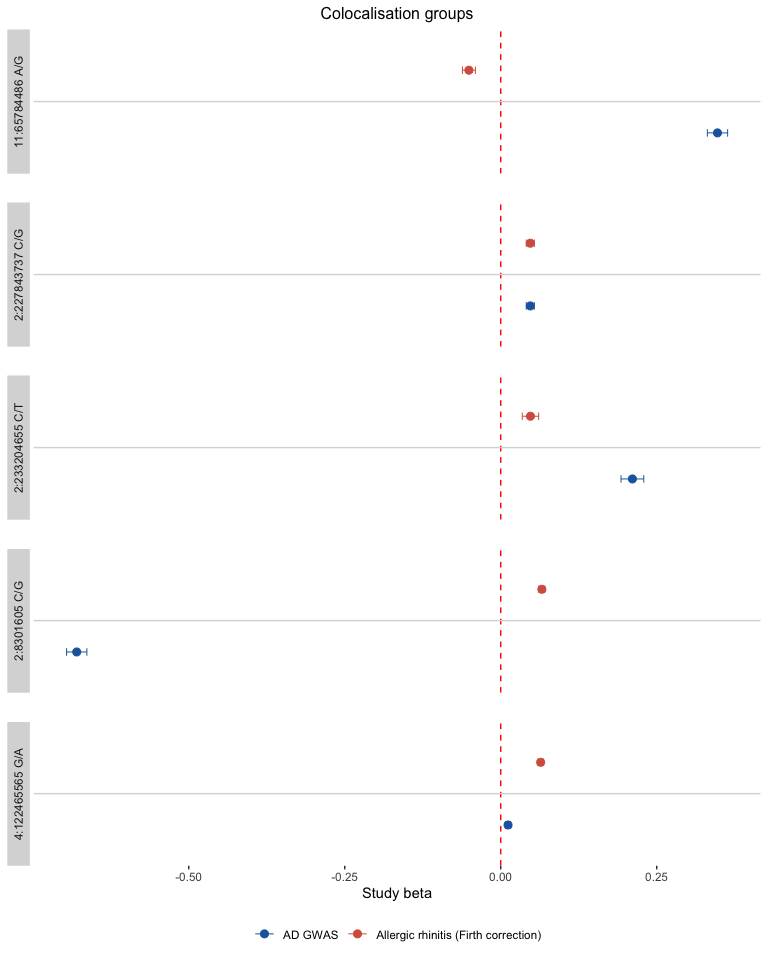
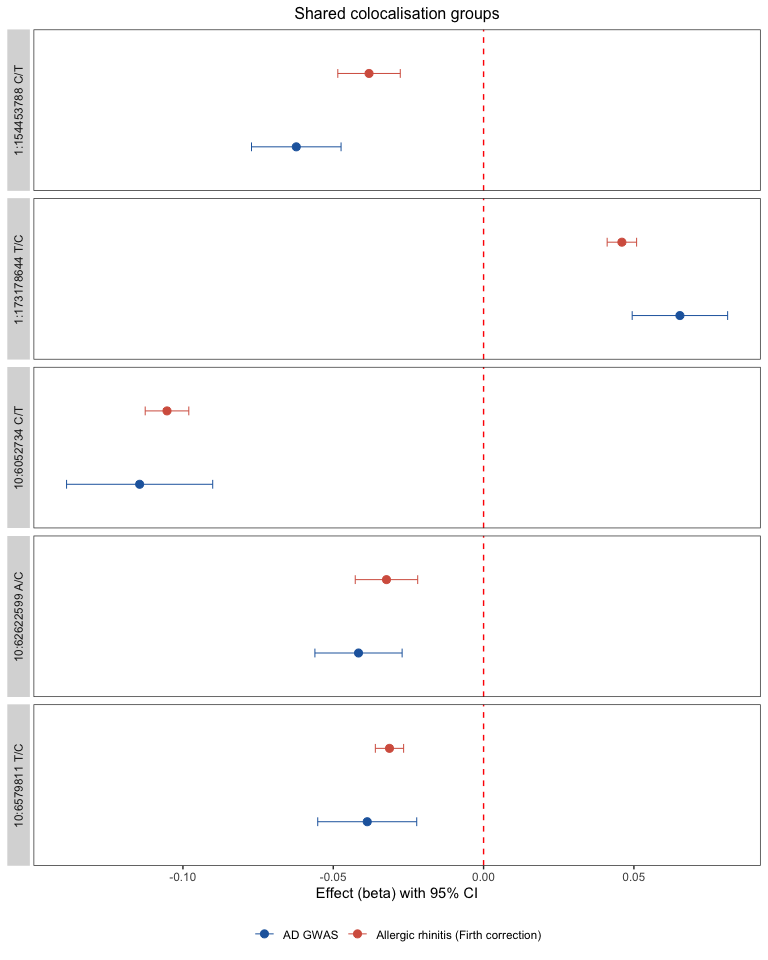
Feature/update offline vignettes (#31)
* Running vignettes/precompile.R for cran prep

* Updating CRAN comments

diff --git a/cran-comments.md b/cran-comments.md
@@ -3,20 +3,26 @@
 0 errors | 0 warnings | 1 note
 
 * This is a new release.
+* Possibly misspelled words in DESCRIPTION: "colocalisation", "colocalising" and "pleiotropy" are
+  spelled correctly (British spelling of standard genetics terms).
 
 ## Test environments
 
-* local macOS, R (release)
-* win-builder (devel)
-* R-hub (linux, macos, windows)
+* local macOS, R release: 0 errors | 0 warnings | 1 note ("unable to verify current time", from the
+  local network)
+* win-builder, R-devel (2026-10-22 r90748 ucrt), x86_64-w64-mingw32: 0 errors | 0 warnings | 1 note
+  (the note above)
+* R-hub: linux, macos, macos-arm64, windows (R-devel)
 
 ## Notes for the reviewer
 
 * gpmapr is a client for a web API (<https://gpmap.opengwas.io>).
   - Loading the package makes no network request.
   - Functions that reach the API fail with an informative error when it is unavailable.
-* Tests that need the API are skipped on CRAN with `skip_on_cran()`. The tests that run on CRAN use recorded API responses (tests/testthat/fixtures) and need no network access.
-* Examples that call the API are wrapped in `@examplesIf gpmap_available()`.
-  - `upload_gwas()` and `delete_gwas()` are in `\dontrun{}` because they change data on the server and need the user's email address.
-  - `ld_matrix()` is also in `\dontrun{}`.
+* Tests that need the API are skipped on CRAN with `skip_on_cran()`. The tests that run on CRAN use
+  recorded API responses (tests/testthat/fixtures) and need no network access.
+* Examples that call the API are wrapped in `@examplesIf gpmap_available()`, so they are skipped
+  when the API can't be reached.
+  - `upload_gwas()` and `delete_gwas()` are in `\dontrun{}` because they change data on the server
+    and need the user's email address.
 * The vignettes are precomputed, so building them needs no network access.
